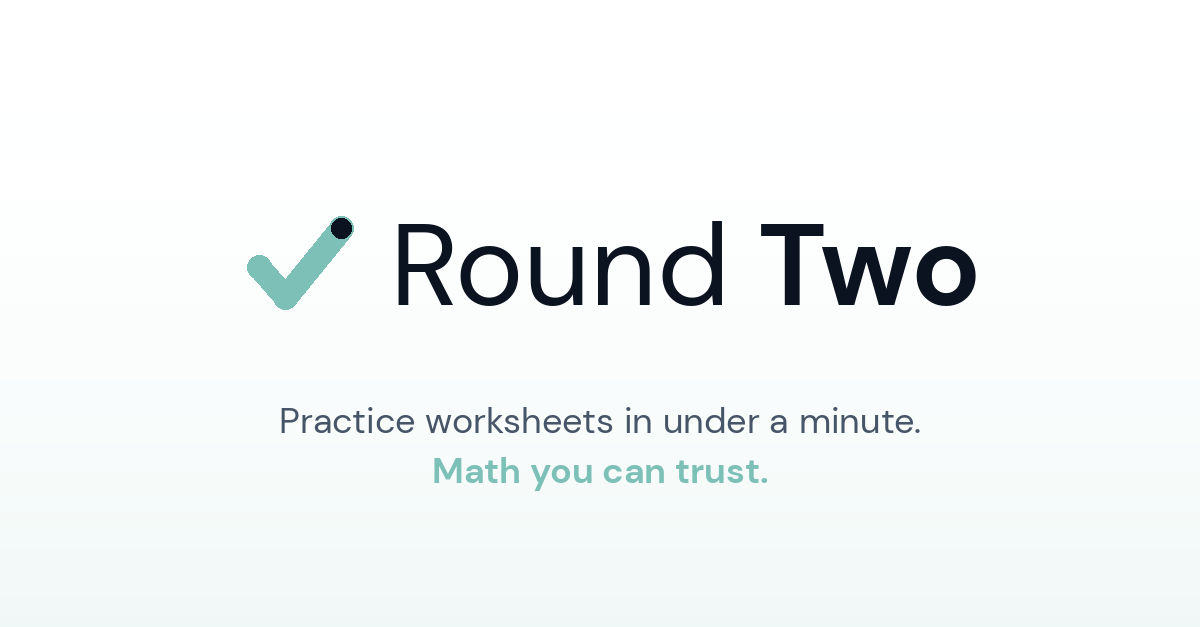
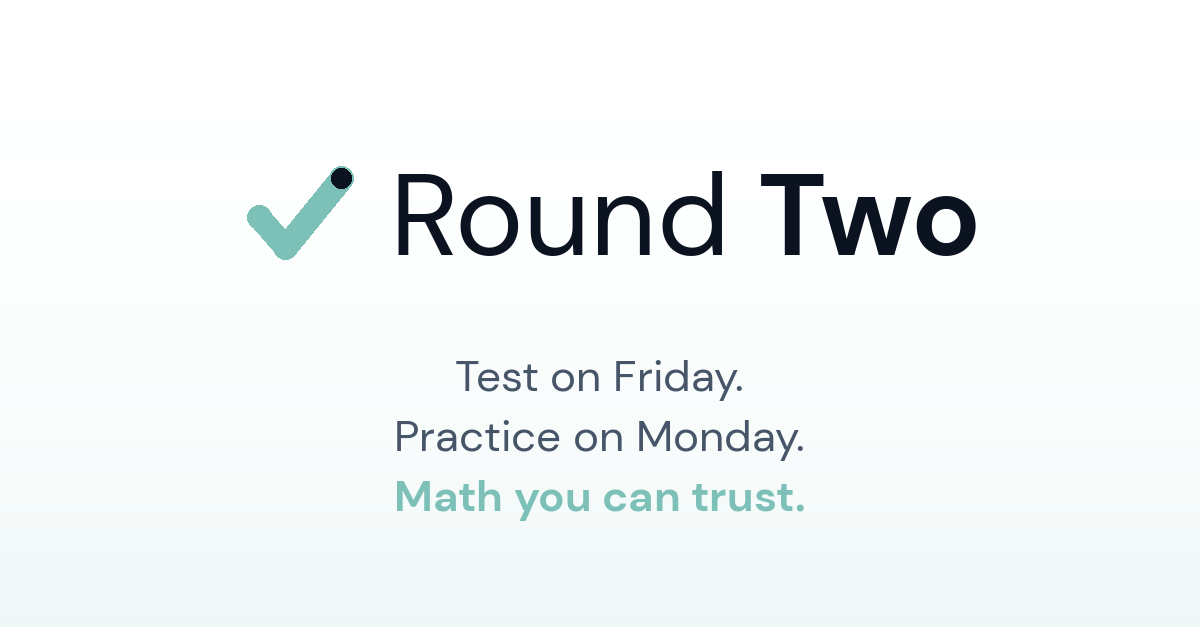
LinkedIn graphic: switch to three-line "Test on Friday" tagline
Per user pick: drop "Practice worksheets in under a minute. / Math you
can trust." in favor of a three-line treatment that mirrors the app's
hero headline.

  Test on Friday.        (regular, charcoal-muted)
  Practice on Monday.    (regular, charcoal-muted)
  Math you can trust.    (bold, glacier — the visual hook)

Bumped tagline size 36 -> 44 px and pushed the lockup higher (vertical
center 42% -> 34%) to make room for the third line without crowding.

https://claude.ai/code/session_017A9rQx86Juxytge4ZEmx55

Changed region(s): [[0.185, 0.2727, 0.8325, 0.5152], [0.2158, 0.5758, 0.7708, 0.8182]]

diff --git a/brand/social/generate_linkedin.py b/brand/social/generate_linkedin.py
@@ -111,9 +111,10 @@ def main() -> None:
     gap = 14  # tight pixel gap between mark and wordmark
     lockup_w = mark_size + gap + wm_w
 
-    # Position lockup horizontally centered, slightly above vertical center.
+    # Position lockup horizontally centered. Three-line tagline below
+    # needs more room than a two-line one, so push the lockup higher.
     lockup_cx = W // 2
-    lockup_cy = int(H * 0.42)
+    lockup_cy = int(H * 0.34)
 
     mark_cx = lockup_cx - lockup_w // 2 + mark_size // 2
     mark_cy = lockup_cy
@@ -125,22 +126,23 @@ def main() -> None:
     draw.text((wm_x, wm_y), word_a, font=wm_regular, fill=CHARCOAL)
     draw.text((wm_x + a_w, wm_y), word_b, font=wm_bold, fill=CHARCOAL)
 
-    # Tagline below the lockup.
-    tag_top_font = ImageFont.truetype(DMSANS_REGULAR, 36)
-    tag_bottom_font = ImageFont.truetype(DMSANS_BOLD, 36)
-    tag_top = "Practice worksheets in under a minute."
-    tag_bottom = "Math you can trust."
+    # Three-line tagline below the lockup. Same copy as the app's hero
+    # headline so the social card primes recognition. First two lines in
+    # charcoal-muted regular, third in glacier bold as the visual hook.
+    tag_regular = ImageFont.truetype(DMSANS_REGULAR, 44)
+    tag_bold = ImageFont.truetype(DMSANS_BOLD, 44)
+    lines = [
+        ("Test on Friday.", tag_regular, MUTED),
+        ("Practice on Monday.", tag_regular, MUTED),
+        ("Math you can trust.", tag_bold, GLACIER),
+    ]
 
     tag_y = lockup_cy + mark_size // 2 + 56
-
-    tt_bbox = draw.textbbox((0, 0), tag_top, font=tag_top_font)
-    tt_w = tt_bbox[2] - tt_bbox[0]
-    draw.text(((W - tt_w) // 2, tag_y), tag_top, font=tag_top_font, fill=MUTED)
-
-    tb_bbox = draw.textbbox((0, 0), tag_bottom, font=tag_bottom_font)
-    tb_w = tb_bbox[2] - tb_bbox[0]
-    draw.text(((W - tb_w) // 2, tag_y + 50), tag_bottom,
-              font=tag_bottom_font, fill=GLACIER)
+    line_h = 60
+    for i, (text, font, color) in enumerate(lines):
+        bbox = draw.textbbox((0, 0), text, font=font)
+        w = bbox[2] - bbox[0]
+        draw.text(((W - w) // 2, tag_y + i * line_h), text, font=font, fill=color)
 
     OUT.parent.mkdir(parents=True, exist_ok=True)
     img.save(OUT, "PNG", optimize=True)
